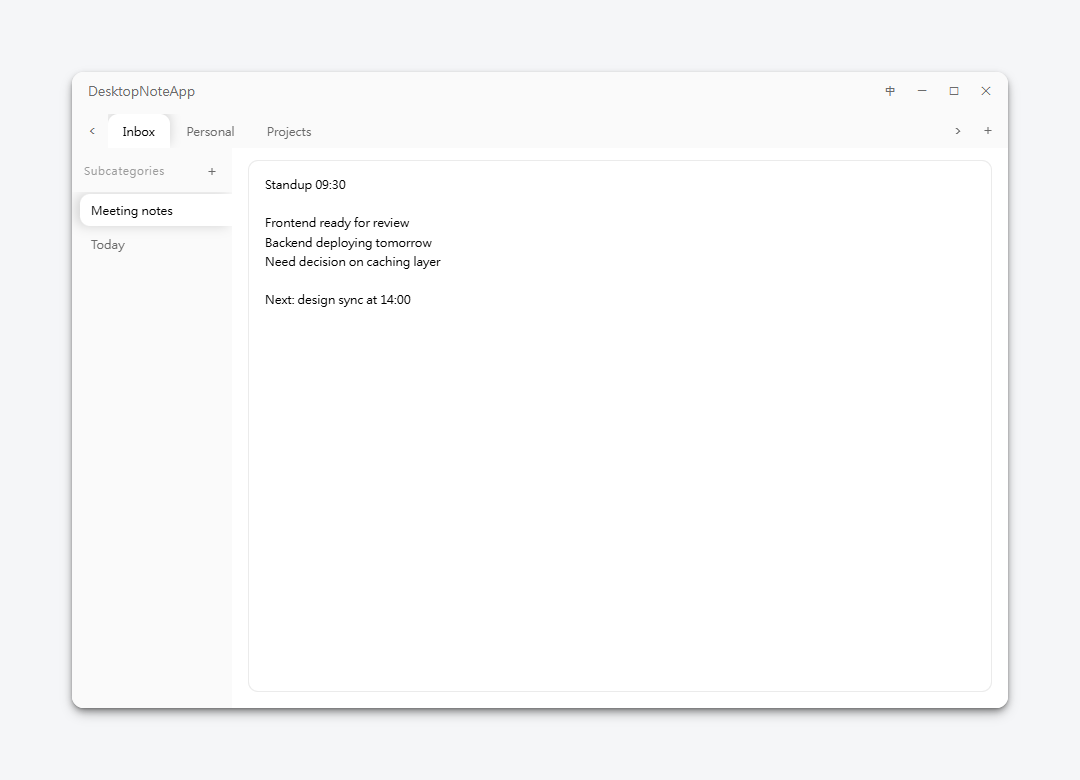
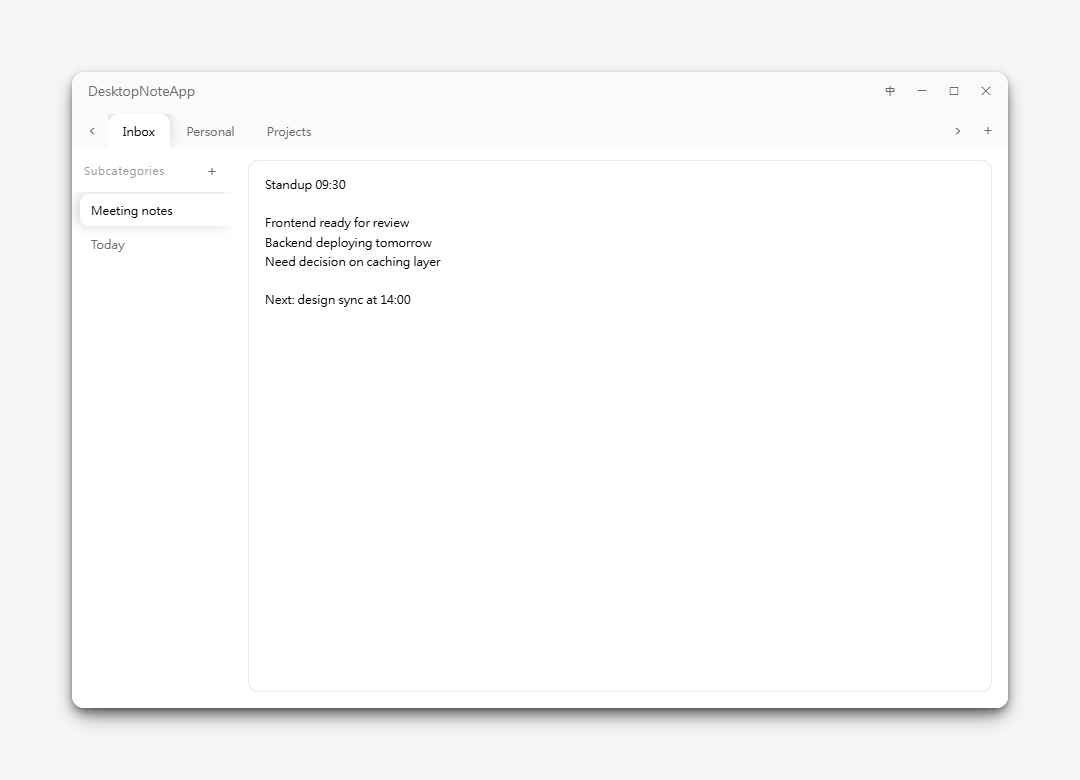
v0.4.0: Frosted-glass shell
- Window body is rgba(255,255,255,0.4) translucent white over the
  desktop, unified across title bar / tabbar / sidebar
- Padding ring stays fully transparent (no OS blur) with a 4-layer
  deep box-shadow softly fading into the original desktop
- Drag stays smooth: dropped OS apply_acrylic/apply_blur to avoid
  Win 10 1903+ DWM lag; pure CSS layers give the same look without
  any GPU compositor overhead

- Bump 0.3.0 -> 0.4.0 in package.json, Cargo.toml, tauri.conf.json
- README + CHANGELOG updated; new screenshot reflecting the glass

Changed region(s): [[0.0611, 0.8923, 0.9472, 0.9538], [0.0917, 0.0923, 0.1833, 0.1231]]

diff --git a/src/styles/tokens.css b/src/styles/tokens.css
@@ -5,10 +5,14 @@
   --radius-sm: 4px;
 
   /* 顏色 */
-  --bg-block: #ffffff;             /* 白底區塊（content / active tab / active sub） */
-  --bg-shell: #fafafa;             /* 視窗外殼浮卡 = 與 titlebar / tabbar / sidebar 同色 */
-  --bg-sidebar: #fafafa;           /* sidebar / tabbar 灰底 */
-  --bg-titlebar: #fafafa;          /* 標題列同 sidebar 色 */
+  --bg-block: #ffffff;                          /* content / active tab / active sub 實心白閱讀清楚 */
+  --bg-shell: rgba(255, 255, 255, 0.4);         /* 視窗本體：40% 半透明白統一毛玻璃 */
+  --bg-sidebar: transparent;                    /* sidebar/tabbar 透明，由 shell 0.4 統一覆蓋 */
+  --bg-titlebar: transparent;                   /* 標題列透明，由 shell 0.4 統一覆蓋 */
+  --glass-blur: 24px;
+  /* 設計：ring 完全透明（顯示原桌面 + 陰影漸隱），
+     .app-shell 40% 半透明白統一覆蓋整個視窗本體（標題列/tabbar/sidebar 一致 40% 毛玻璃），
+     只有 content area / active tab / active sub 是實心白方便閱讀 */
   --bg-hover: rgba(0, 0, 0, 0.04);
   --bg-active: rgba(0, 0, 0, 0.06);
   --bg-overlay: rgba(0, 0, 0, 0.35);
@@ -25,15 +29,13 @@
   --border-medium: rgba(0, 0, 0, 0.10);
   --border-focus: #000000;
 
-  /* 陰影 — 必須完全在 --shell-padding 範圍內漸隱，否則被 viewport 截掉成銳利分界線。
-     box-shadow Gaussian tail ≈ blur×1.6，所以 (offset + blur - spread) × 1.6 ≤ padding 才安全。
-     當前 padding 32：最大 (6 + 12 - 2) × 1.6 = 25.6px，留 6px 緩衝。
-     opacity 強化到 0.34 補強對比感（範圍小但深濃）。 */
+  /* 陰影 — 4 層深濃，在 32px padding 內漸隱
+     最大 (12+22-8)=26px ≤ 32px buffer 6px，opacity 0.40 給明顯立體感 */
   --shadow-shell:
-    inset 0 0 0 1px #fafafa,
-    0 1px 2px rgba(0, 0, 0, 0.18),
-    0 3px 6px rgba(0, 0, 0, 0.26),
-    0 6px 12px -2px rgba(0, 0, 0, 0.34);
+    0 1px 3px rgba(0, 0, 0, 0.16),
+    0 4px 8px rgba(0, 0, 0, 0.24),
+    0 8px 16px -2px rgba(0, 0, 0, 0.32),
+    0 12px 22px -8px rgba(0, 0, 0, 0.40);
   --shadow-modal: 0 4px 24px rgba(0, 0, 0, 0.18);
 
   /* 標籤凸出陰影（active / hover 用） — 強化對比 */
@@ -50,7 +52,7 @@
   --font-sans: 'Inter', 'Microsoft JhengHei', '源泉圓體丹', 'PingFang TC', sans-serif;
 
   /* 尺寸 */
-  --shell-padding: 32px;
+  --shell-padding: 32px;     /* 回原本尺寸；shadow ≤26px 安全在內 */
   --titlebar-h: 36px;
   --tabbar-h: 40px;
   --sidebar-w: 160px;

diff --git a/src/App.vue b/src/App.vue
@@ -82,6 +82,8 @@ async function onConfirm(value: string) {
   flex-direction: column;
   height: 100%;
   background: var(--bg-shell);
+  backdrop-filter: blur(var(--glass-blur)) saturate(140%);
+  -webkit-backdrop-filter: blur(var(--glass-blur)) saturate(140%);
   border-radius: var(--radius-lg);
   box-shadow: var(--shadow-shell);
   overflow: hidden;

diff --git a/src/styles/global.css b/src/styles/global.css
@@ -16,6 +16,8 @@ body {
 #app {
   height: 100vh;
   padding: var(--shell-padding);
+  /* 完全透明：padding ring 顯示 OS Aero blur 桌面 + box-shadow 漸隱
+     視覺 = 卡片陰影自然漸隱在模糊桌面上，看得到桌面又有陰影感 */
   background: transparent;
   font-family: var(--font-sans);
   font-size: 12px;

diff --git a/src-tauri/src/main.rs b/src-tauri/src/main.rs
@@ -3,13 +3,12 @@
 mod commands;
 
 fn main() {
-    // WebView2 預設背景白色，在 transparent 視窗內側會形成 1px 白邊。
-    // 設 AARRGGBB = 00FFFFFF（AA=00 完全透明），讓 WebView2 本身透明。
-    // 必須在 Tauri Builder 之前設定。
+    // WebView2 預設背景白色，會在 transparent 視窗內形成 1px 白邊；設為透明。
     std::env::set_var("WEBVIEW2_DEFAULT_BACKGROUND_COLOR", "00FFFFFF");
 
-    // 不套用 mica / acrylic：Win 10 不支援 mica，acrylic 拖曳卡頓且無系統圓角。
-    // 視窗保持 transparent + decorations:false 當畫布，圓角與陰影由前端 CSS 自繪。
+    // 不套用 OS apply_blur：使用者要 ring 完全透明（看到原桌面），
+    // OS 層 blur 會讓 ring 也呈現模糊+tint 白色，達不到「純透明 + 陰影」要求。
+    // 代價：.app-shell 中央失去真實桌面模糊，僅以 CSS 35% 半透明白覆蓋原桌面。
     tauri::Builder::default()
         .invoke_handler(tauri::generate_handler![
             commands::load_notes,

diff --git a/README.md b/README.md
@@ -18,6 +18,7 @@
 - **兩層分類結構**：上方主分類 tab + 左側子分類 sidebar + 右側內文編輯區
 - **即時自動保存**：300 ms debounce，內容變更自動寫入磁碟，atomic rename 防壞檔
 - **雙語介面**：預設英文，點標題列右上 **中** / **EN** 按鈕一鍵切換繁體中文，選擇記憶在 `localStorage`
+- **毛玻璃外殼**：視窗本體 40% 半透明白覆蓋桌面，外圍透明 + 4 層深陰影 = 卡片浮在桌面上
 - **視覺**：透明畫布上的圓角浮卡，4 層柔和陰影；統一 10 px 圓角、Inter + Microsoft JhengHei 字型
 - **動態標籤**：選中的 tab 上方圓角凸出、選中的子分類左方圓角凸出，無縫連接到內文區
 - **輕量**：Installer 約 1 MB，執行記憶體約 30 MB，per-user 安裝免管理員權限
@@ -26,6 +27,7 @@
 - **Two-level hierarchy**: top main-category tabs + left sub-category sidebar + right content editor
 - **Live auto-save**: 300 ms debounce, changes are written to disk via atomic rename — safe against power loss
 - **Bilingual UI**: English by default; click the **中** / **EN** toggle at the top-right of the title bar to switch to Traditional Chinese. The choice is remembered in `localStorage`
+- **Frosted-glass shell**: window body is 40 % translucent white over the desktop; the transparent 32 px padding ring with a 4-layer deep shadow makes the card visibly float
 - **Visuals**: rounded floating card on a transparent canvas, 4-layer soft shadow; unified 10 px radius, Inter + Microsoft JhengHei typography
 - **Dynamic tabs**: active tab pops out with rounded top corners, active sub-category pops out with rounded left corners, both seamlessly connecting to the content area
 - **Lightweight**: ~1 MB installer, ~30 MB RAM at runtime, per-user install with no admin required

diff --git a/CHANGELOG.md b/CHANGELOG.md
@@ -3,6 +3,25 @@
 All notable changes to DesktopNoteApp are documented here.
 Format loosely follows [Keep a Changelog](https://keepachangelog.com).
 
+## [0.4.0] — 2026-05-17
+
+### Added
+- **Frosted-glass shell**: window body is `rgba(255, 255, 255, 0.4)` translucent white over the desktop — the title bar, tabbar, and sidebar all share this unified glass surface
+- 4-layer deep `box-shadow` (max opacity 0.40) softly fades into the fully-transparent 32 px padding ring → "card floating on desktop" depth
+
+### Changed
+- `--bg-shell`: solid `#fafafa` → `rgba(255, 255, 255, 0.4)`
+- `--bg-titlebar`, `--bg-sidebar`: solid → `transparent` (children inherit shell glass)
+- Content area / active tab / active sub remain solid `#ffffff` for legibility
+
+### Why no OS Aero / Mica / Acrylic
+- On Windows 10 1903+, `apply_acrylic` triggers a DWM bug that makes window drag stutter — confirmed unacceptable
+- `apply_blur` (Aero `BLURBEHIND`) did blur the real desktop but the user found it visually equivalent to pure CSS once a white tint was applied
+- Pure CSS layers give a uniform glass look, zero drag overhead, and identical behavior across Win 10 and Win 11
+
+### Bumped
+- `0.3.0` → `0.4.0` in `package.json`, `Cargo.toml`, `tauri.conf.json`
+
 ## [0.3.0] — 2026-05-16
 
 ### Added
